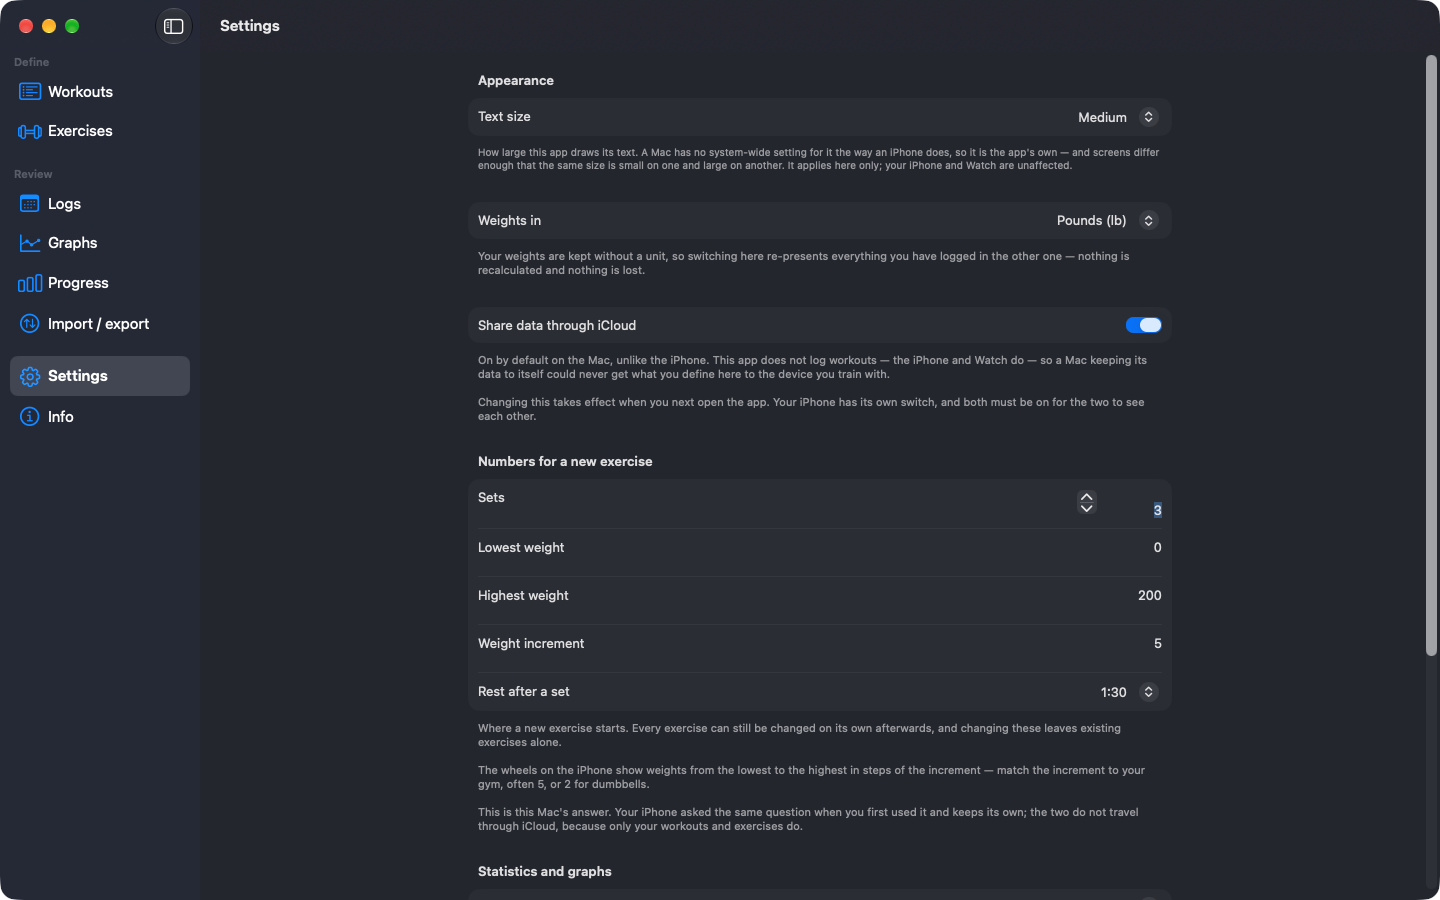
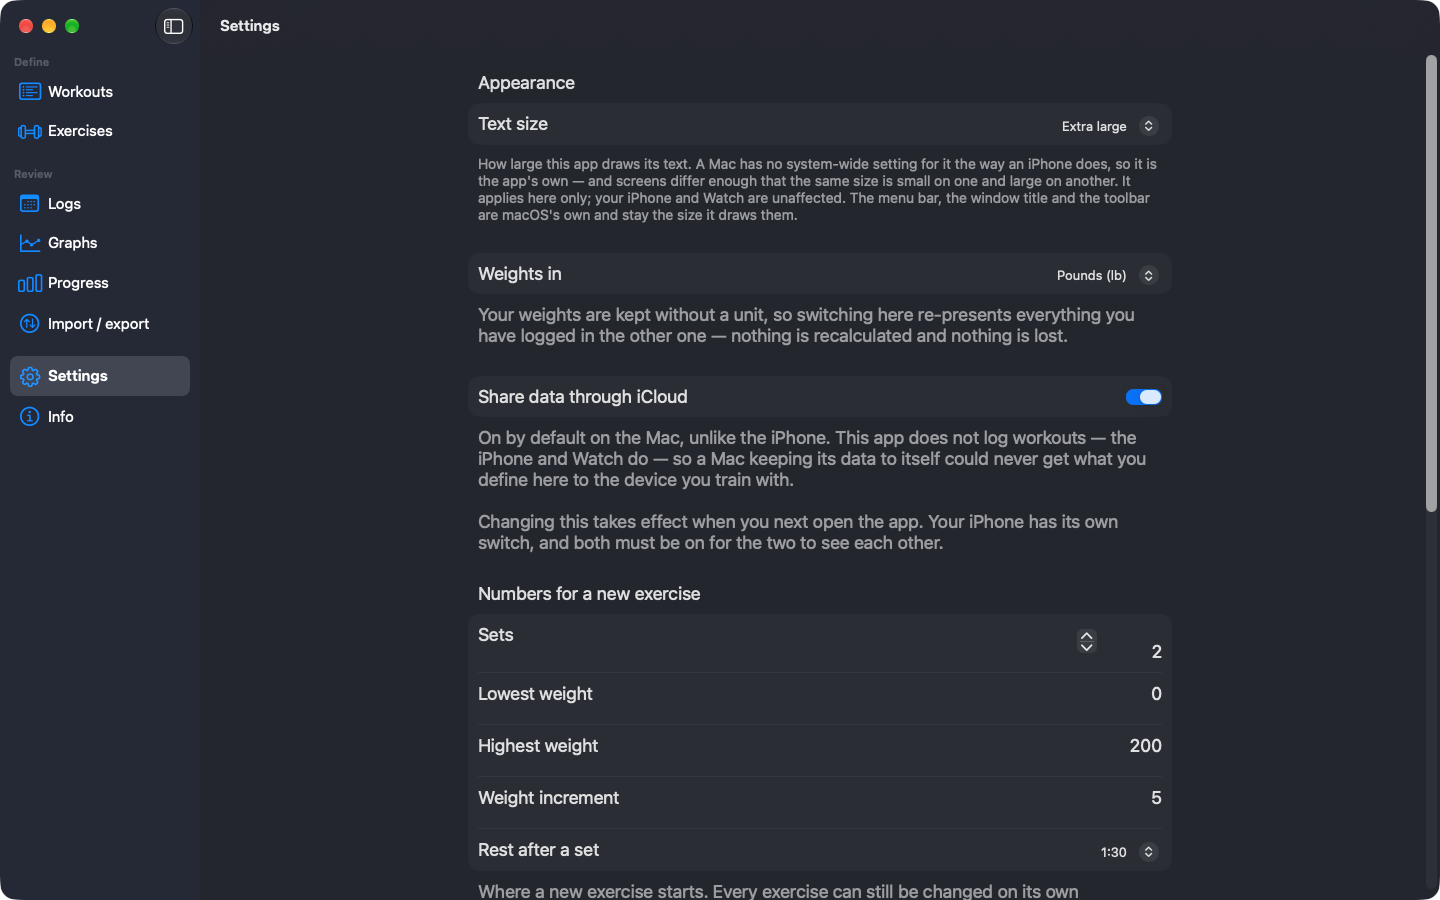
Shoot the Watch with both rows of wheels
Two rows is a headline 1.7 feature with no picture: all five Watch
captures were the one-row layout, which is not what the setting is for.
Adds a sixth, after the one-row log screen so the two read as a pair.

The layout comes from a preference the phone sends, and the screenshot
script passes a screen name and nothing else — so the screen name sets
it, the way `-SRWRows 2` does by hand.

Also carries the Mac captures re-shot against 1.7: the settings screen
had gained a sentence, and these were taken at Extra large, which is
the setting that now does something.

diff --git a/workout_aicode Watch App/WatchSessionManager.swift b/workout_aicode Watch App/WatchSessionManager.swift
@@ -97,6 +97,9 @@ final class WatchSessionManager: NSObject, ObservableObject {
            let rows = Int(args[i + 1]) {
             wheelRows = WatchPreferences.clampRows(rows)
         }
+        // The screen that exists to show two rows brings its own setting: the
+        // screenshot script names a screen and passes nothing else.
+        if DemoMode.screen == "tworows" { wheelRows = 2 }
         if let i = args.firstIndex(of: "-SRWTint"), i + 1 < args.count,
            let tint = Double(args[i + 1]) {
             zoneTint = WatchPreferences.clampTint(tint)

diff --git a/workout_aicode Watch App/ContentView.swift b/workout_aicode Watch App/ContentView.swift
@@ -72,6 +72,10 @@ struct ContentView: View {
             session.applyDemoPreferences()
             switch DemoMode.screen {
             case "log":    path = [DemoMode.workoutId]
+            // The log screen with both rows of wheels; the layout itself comes
+            // from the preference this screen name sets — see
+            // `applyDemoPreferences`.
+            case "tworows": path = [DemoMode.workoutId]
             case "paused": session.showDemoPaused()
             case "heart":
                 WatchAerobicWorkout.shared.showDemoHeartRate(

diff --git a/workout_aicode Watch App/DemoMode.swift b/workout_aicode Watch App/DemoMode.swift
@@ -7,7 +7,7 @@ import Foundation
 // Watch screens without needing a paired phone to sync data first:
 //
 //   -SRWDemo               seed sample workouts directly into WatchSessionManager
-//   -SRWScreen <name>      open a screen: log | paused | rest | restzone
+//   -SRWScreen <name>      open a screen: log | tworows | paused | rest | restzone
 //   -SRWRest <seconds>     how much of the demo rest is left (default 68 of 90)
 //
 // DEBUG-only, so none of this can ship.
